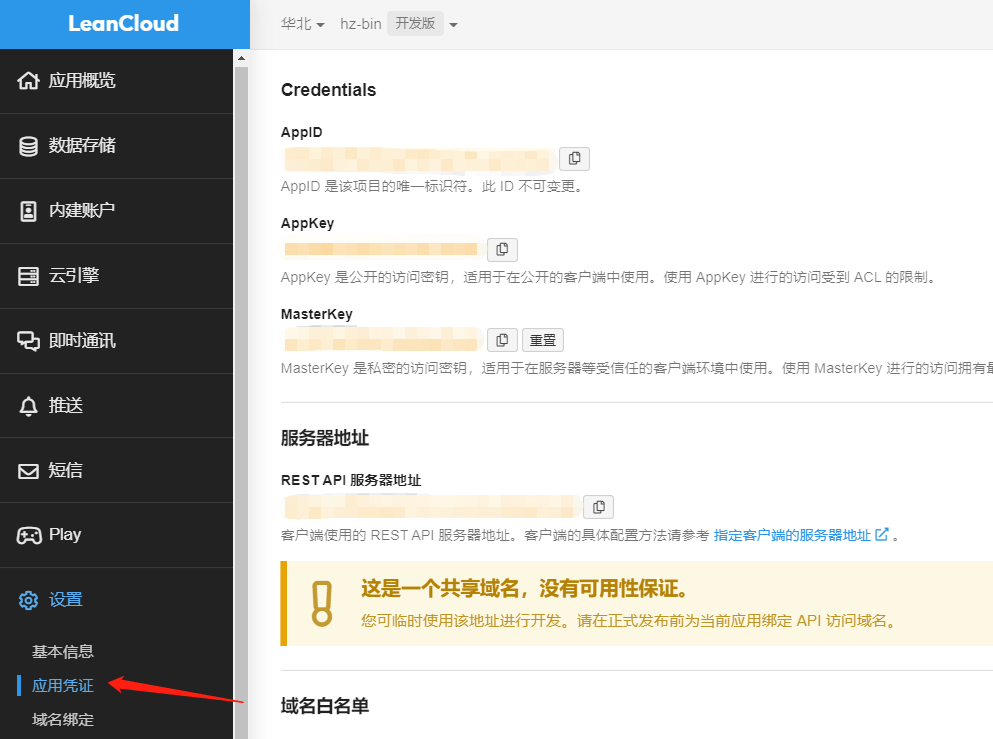
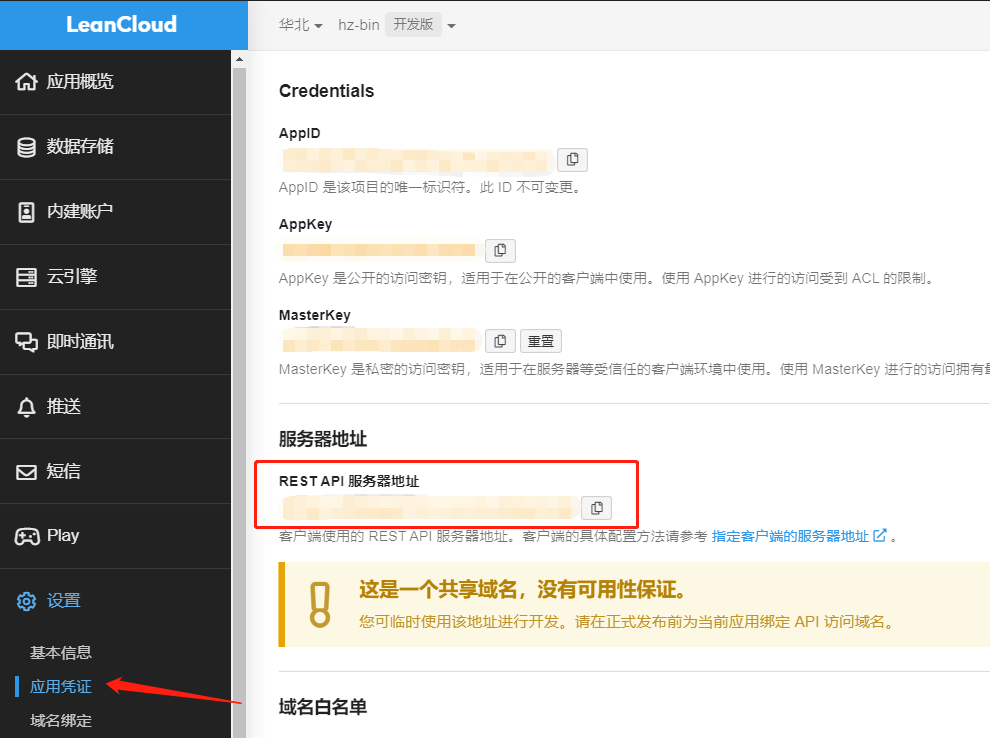
博客搭建

diff --git a/_posts/2021-08-14-BuildBlog.md b/_posts/2021-08-14-BuildBlog.md
@@ -12,7 +12,7 @@ pageview: true
 
 ![](/assets/images/blog1.png)
 
-- 进入 `Settings->Pages` 页面，`Source` 选择 `master`，然后点击 `Save`，则完成部署，即可通过 [https://hz.bin.github.io](https://hz.bin.github.io) 进行访问了。
+- 进入项目的 `Settings->Pages` 页面，`Source` 选择 `master`，然后点击 `Save`，则完成部署，即可通过 [https://hz-bin.github.io](https://hz-bin.github.io) 进行访问了。
 
 ![](/assets/images/blog2.png)
 ![](/assets/images/blog3.png)
@@ -25,7 +25,7 @@ pageview: true
 - **如何新增一篇博客**：在 `_posts` 目录中新建 `markdown` 格式文件，文件名格式为 `yyyy-mm-dd-blogname.md`。`jekyll` 会自动进行构建。
 
 ## 3、如何配置 gitalk 作为博客的评论系统
-- 首先需要新建一个 [OAuth application](https://github.com/settings/applications/new)，如下图所示：
+- 首先需要新建一个 [OAuth application](https://github.com/settings/applications/new)（右上角头像 -> Settings -> Developer settings -> OAuth Apps -> New OAuth App），如下图所示：
 
 ![](/assets/images/blog4.png)
 
@@ -34,27 +34,56 @@ pageview: true
 ![](/assets/images/blog5.png)
 ![](/assets/images/blog6.png)
 
-- 将 `Client ID` 和 刚刚生产的 `Client secrets` 拷贝到 `_config.yml` 文件中，其他参数如图所示：
+- 将 `Client ID` 和 刚刚产生的 `Client secrets` 拷贝到 `_config.yml` 文件中，其他参数如图所示：
 
 ![](/assets/images/blog7.png)
 
 配置完成之后，登录 `gitalk` 时可能会出现403错误，参考 [Gitalk 评论登录 403 问题解决](https://cuiqingcai.com/30010.html) 和 [在cloudflare上创建一个免费的在线代理来解决gitalk授权登录报403问题](https://www.chenhanpeng.com/create-own-cors-anywhere-to-resolve-the-request-with-403/#create-cors-by-self)
 
-
-## 4、如果配置 leancloud 记录文章访问次数
+## 4、如何配置 leancloud 记录文章访问次数
 - 首先进入 [LeanCloud](https://console.leancloud.cn/apps)，新建一个应用，应用名称自己随便填。然后进入到设置界面，如下所示，`_config.yml` 配置中，`pageview` 的 `provider` 填 `leancloud`，`leancloud` 的 `app_id` 和 `app_key` 分别填应用凭证界面的 `AppID` 和 `AppKey`。
 
 ![](/assets/images/blog8.png)
 ![](/assets/images/blog9.png)
 
-- `app_class` 填 `Blog` 或者其他的名字，`LeanCloud` 会用该名称在 **数据存储 -> 结构化数据** 中创建Class，相当于存储访问次数的表。
+- `app_class` 填 `Blog` 或者自己定义一个名字，`LeanCloud` 会用该名称在 **数据存储 -> 结构化数据** 中创建Class，相当于存储访问次数的表。
 
 ![](/assets/images/blog10.png)
 
 - 修改 `_includes/pageview-providers/leancloud/leancloud.js`，如下所示，`serverURLs` 改为 `serverURL`，值改为上面应用凭证中的 `REST API 服务器地址`。
+
 ![](/assets/images/blog11.png)
 
 可参考官方文档：
-> 初始化：https://leancloud.cn/docs/sdk_setup-js.html#hash20935048
+> 初始化：[https://leancloud.cn/docs/sdk_setup-js.html#hash20935048](https://leancloud.cn/docs/sdk_setup-js.html#hash20935048)
 
-> 数据存储入门教程 · JavaScript：https://leancloud.cn/docs/leanstorage-started-js.html
+> 数据存储入门教程 · JavaScript：[https://leancloud.cn/docs/leanstorage-started-js.html](https://leancloud.cn/docs/leanstorage-started-js.html)
+
+## 5、如何给自己的博客设置自定义域名
+- 首先需要申请域名，本博客域名从[腾讯云](https://dnspod.cloud.tencent.com/)申请。
+- 域名申请完成之后，进入[域名管理界面](https://console.cloud.tencent.com/domain)，点击解析。
+
+![](/assets/images/blog12.png)
+
+- 添加如下2条记录，其中 `ip` 地址是通过 `ping hz-bin.github.io` 得到的：
+
+![](/assets/images/blog13.png)
+![](/assets/images/blog14.png)
+
+- 进入到 `github` 项目的 `Settings -> Pages` 配置界面，`Custom domain` 填刚刚注册的域名，同时勾选上 `Enforce HTTPS`，然后保存。等待10分钟左右，就可以通过 `https://www.hz-bin.cn` 访问了。
+
+![](/assets/images/blog15.png)
+
+###  gitalk 和 cloudflare 修改
+- 配置完域名之后，会发现 gitalk 登录不上了，且文章计数也获取不到了，需要对相关配置进行修改。
+- 登录 `github`，右上角头像 -> Settings -> Developer settings -> OAuth Apps，看到如下界面，点击第3节新建的 `OAuth application`，将 `Homepage URL` 和 `Authorization callback URL` 改成新的博客地址 `https://www.hz-bin.cn`，然后保存。
+
+![](/assets/images/blog16.png)
+
+- 登录 [cloudflare](https://dash.cloudflare.com/)，按如图所示操作：
+
+![](/assets/images/blog17.png)
+![](/assets/images/blog18.png)
+![](/assets/images/blog19.png)
+![](/assets/images/blog20.png)
+![](/assets/images/blog21.png)
